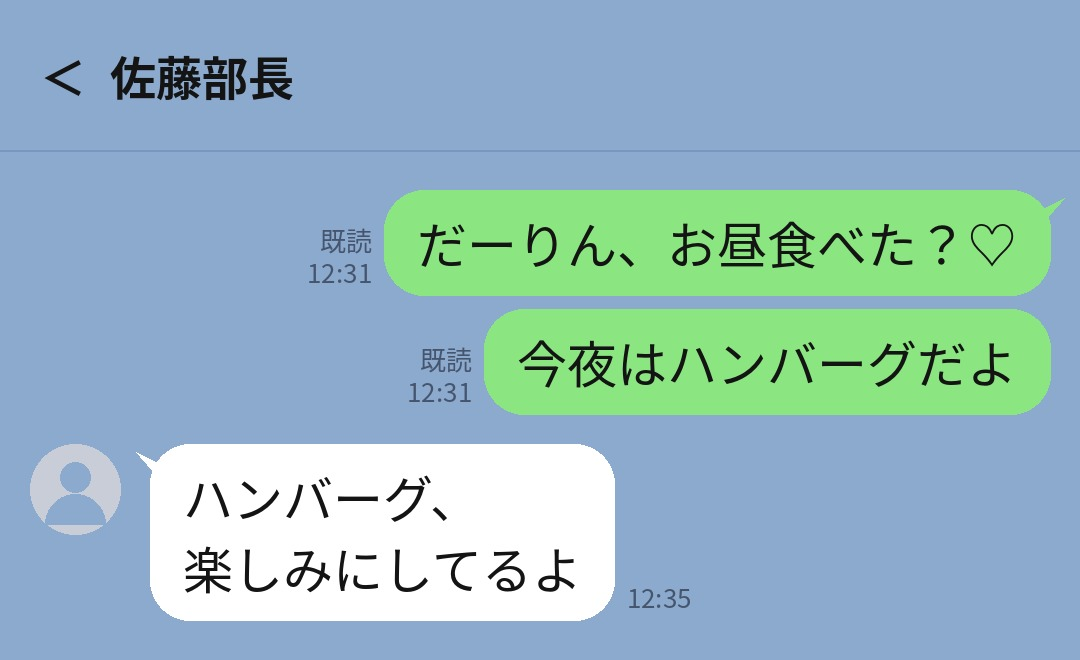
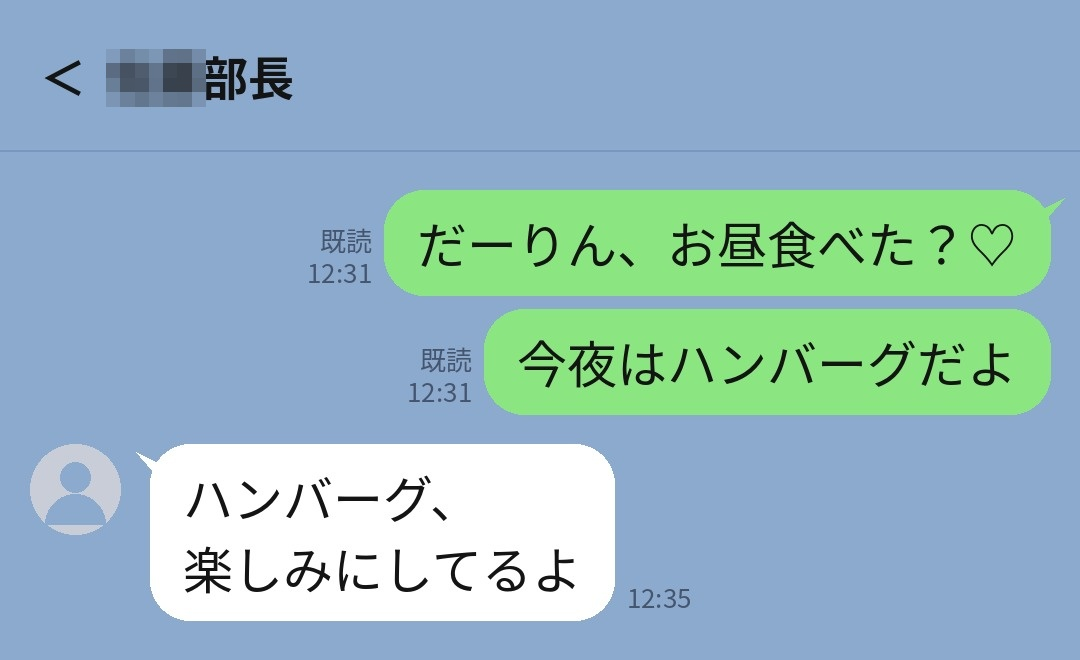
No.49 2枚目を「私、部長です」、3枚目を送信取り消しに。ヘッダーの名字にモザイク
Claude-Session: https://claude.ai/code/session_01BYBmBvznVWhAgsHTXx74AL

Changed region(s): [[0.0917, 0.0606, 0.2139, 0.1818]]

diff --git a/hikaku15/plans/049/03.md b/hikaku15/plans/049/03.md
@@ -1,12 +1,13 @@
 # 3/12
 
-共通設定（common.md）のトーク画面のデザインに従い、投稿案No.49の【3/12】を1枚だけ作ってください。いったん横長3:2で生成し、そのあと共通設定の【トリミング】の手順で上下の余白を切り取って保存します。切り抜いたあとの比率の目安は、横:縦＝2.85:1（横長）です。
+共通設定（common.md）のトーク画面のデザインに従い、投稿案No.49の【3/12】を1枚だけ作ってください。いったん横長3:2で生成し、そのあと共通設定の【トリミング】の手順で上下の余白を切り取って保存します。切り抜いたあとの比率の目安は、横:縦＝2.33:1（横長）です。
 
 ① 画面に並べるもの（上から順に。この文字だけを正確に描く）：
-・私（右の緑の吹き出し・既読つき）12:41：「え」　→1文字・1行・吹き出しの幅は横幅の約11％
-・私（右の緑の吹き出し・既読つき）12:41：「ぶちょう…？」　→6文字・1行・吹き出しの幅は横幅の約35％
-・佐藤部長（左の白い吹き出し）12:42：「部長です」　→4文字・1行・吹き出しの幅は横幅の約25％
+・中央のお知らせの帯：「メッセージの送信を取り消しました」
+・中央のお知らせの帯：「メッセージの送信を取り消しました」
+・佐藤部長（左の白い吹き出し）12:42：「もう見ちゃったから」　→9文字・1行・吹き出しの幅は横幅の約49％
+・佐藤部長（左の白い吹き出し）12:42：「消しても、多分意味ないと思います」　→16文字・2行・吹き出しの幅は横幅の約64％
 ③ 注意点：生成は横長3:2。共通設定の【縮尺】どおり、本物のLINEのスクショと同じ大きさの文字と吹き出しで描く（1文字の幅＝横幅の約4.8％、1行は最大12文字。文字を小さくしない）。吹き出しは画面の上下の真ん中あたりに、本物のLINEと同じ狭い間隔（相手と自分が入れ替わるところも横幅の約1.3％、約20pxだけ）でぎゅっと詰めて並べ、上下の余白は背景の水色だけにする（あとで切り取るため、余白に何も描かない）。トーク画面の切り抜きだけを描き、スマホの外枠や入力欄は描かない。指定のない吹き出し・文字・ロゴは描かない。性的な絵は描かない
-④ 保存の前に：共通設定の【トリミング】の手順で、上下の余白を切り取る（左右は切らない）。上下とも、いちばん外側の吹き出し（写真）から少しだけ余白を残して切る。切り抜き後の比率の目安：横:縦＝2.85:1
+④ 保存の前に：共通設定の【トリミング】の手順で、上下の余白を切り取る（左右は切らない）。上下とも、いちばん外側の吹き出し（写真）から少しだけ余白を残して切る。切り抜き後の比率の目安：横:縦＝2.33:1
 
 【3/12】の画像を1枚だけ生成し、トリミングしてから保存してください。

diff --git a/hikaku15/plans/049/02.md b/hikaku15/plans/049/02.md
@@ -1,12 +1,13 @@
 # 2/12
 
-共通設定（common.md）のトーク画面のデザインに従い、投稿案No.49の【2/12】を1枚だけ作ってください。いったん横長3:2で生成し、そのあと共通設定の【トリミング】の手順で上下の余白を切り取って保存します。切り抜いたあとの比率の目安は、横:縦＝2.85:1（横長）です。
+共通設定（common.md）のトーク画面のデザインに従い、投稿案No.49の【2/12】を1枚だけ作ってください。いったん横長3:2で生成し、そのあと共通設定の【トリミング】の手順で上下の余白を切り取って保存します。切り抜いたあとの比率の目安は、横:縦＝1.96:1（横長）です。
 
 ① 画面に並べるもの（上から順に。この文字だけを正確に描く）：
 ・私（右の緑の吹き出し・既読つき）12:36：「早く帰ってきてね」　→8文字・1行・吹き出しの幅は横幅の約44％
 ・私（右の緑の吹き出し・既読つき）12:36：「ぎゅーってしたい」　→8文字・1行・吹き出しの幅は横幅の約44％
-・佐藤部長（左の白い吹き出し）12:40：「…君、田中さんだよね？」　→11文字・1行・吹き出しの幅は横幅の約59％
+・佐藤部長（左の白い吹き出し）12:40：「多分、間違えてると思うんだけど」　→15文字・2行・吹き出しの幅は横幅の約64％
+・佐藤部長（左の白い吹き出し）12:40：「私、部長です」　→6文字・1行・吹き出しの幅は横幅の約35％
 ③ 注意点：生成は横長3:2。共通設定の【縮尺】どおり、本物のLINEのスクショと同じ大きさの文字と吹き出しで描く（1文字の幅＝横幅の約4.8％、1行は最大12文字。文字を小さくしない）。吹き出しは画面の上下の真ん中あたりに、本物のLINEと同じ狭い間隔（相手と自分が入れ替わるところも横幅の約1.3％、約20pxだけ）でぎゅっと詰めて並べ、上下の余白は背景の水色だけにする（あとで切り取るため、余白に何も描かない）。トーク画面の切り抜きだけを描き、スマホの外枠や入力欄は描かない。指定のない吹き出し・文字・ロゴは描かない。性的な絵は描かない
-④ 保存の前に：共通設定の【トリミング】の手順で、上下の余白を切り取る（左右は切らない）。上下とも、いちばん外側の吹き出し（写真）から少しだけ余白を残して切る。切り抜き後の比率の目安：横:縦＝2.85:1
+④ 保存の前に：共通設定の【トリミング】の手順で、上下の余白を切り取る（左右は切らない）。上下とも、いちばん外側の吹き出し（写真）から少しだけ余白を残して切る。切り抜き後の比率の目安：横:縦＝1.96:1
 
 【2/12】の画像を1枚だけ生成し、トリミングしてから保存してください。
